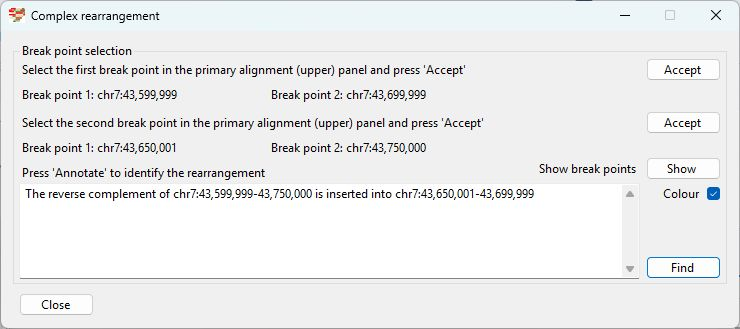
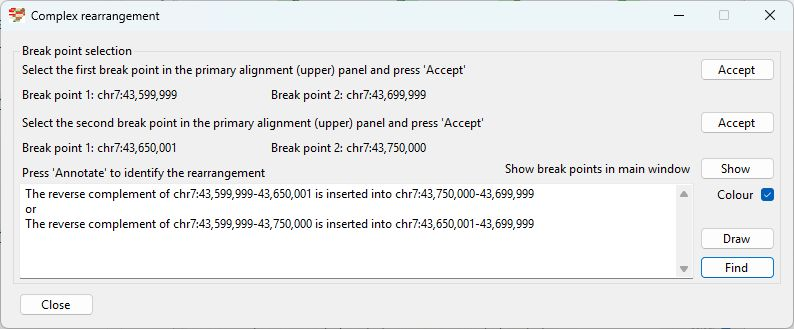
correcting annotation issue

diff --git a/AgileStructure/ComplexRearrangement.cs b/AgileStructure/ComplexRearrangement.cs
@@ -406,8 +406,7 @@ namespace AgileStructure
                         else if (combination == "1100")
                         {
                             string answer = "The reverse complement of " + items1[0] + ":" + items1[1] + "-" + items2[2] + " is inserted into " + items1[0] + ":" + items2[1] + "-" + items1[2];
-                            if (Difference(items2[1], items1[2]) < 50)
-                            { answer = "The reverse complement of " + items1[0] + ":" + items1[1] + "-" + items2[1] + " is inserted into " + items1[0] + ":" + items2[2] + "-" + items1[2] + "\r\nor\r\n" + answer; }
+                            answer = "The reverse complement of " + items1[0] + ":" + items1[1] + "-" + items2[1] + " is inserted into " + items1[0] + ":" + items2[2] + "-" + items1[2] + "\r\nor\r\n" + answer;
                             return answer;
                             //insert_chr7_60_43,600,000-43,750,000_RC_target_chr7_60_50000000-51,000,000_ONT_no_2nd 1 and 2
                             //insert_chr7_60_43,600,000-43,750,000_RC_target_chr7_60_43,650,000-43,700,000_ONT_no_2nd 1 and 2
